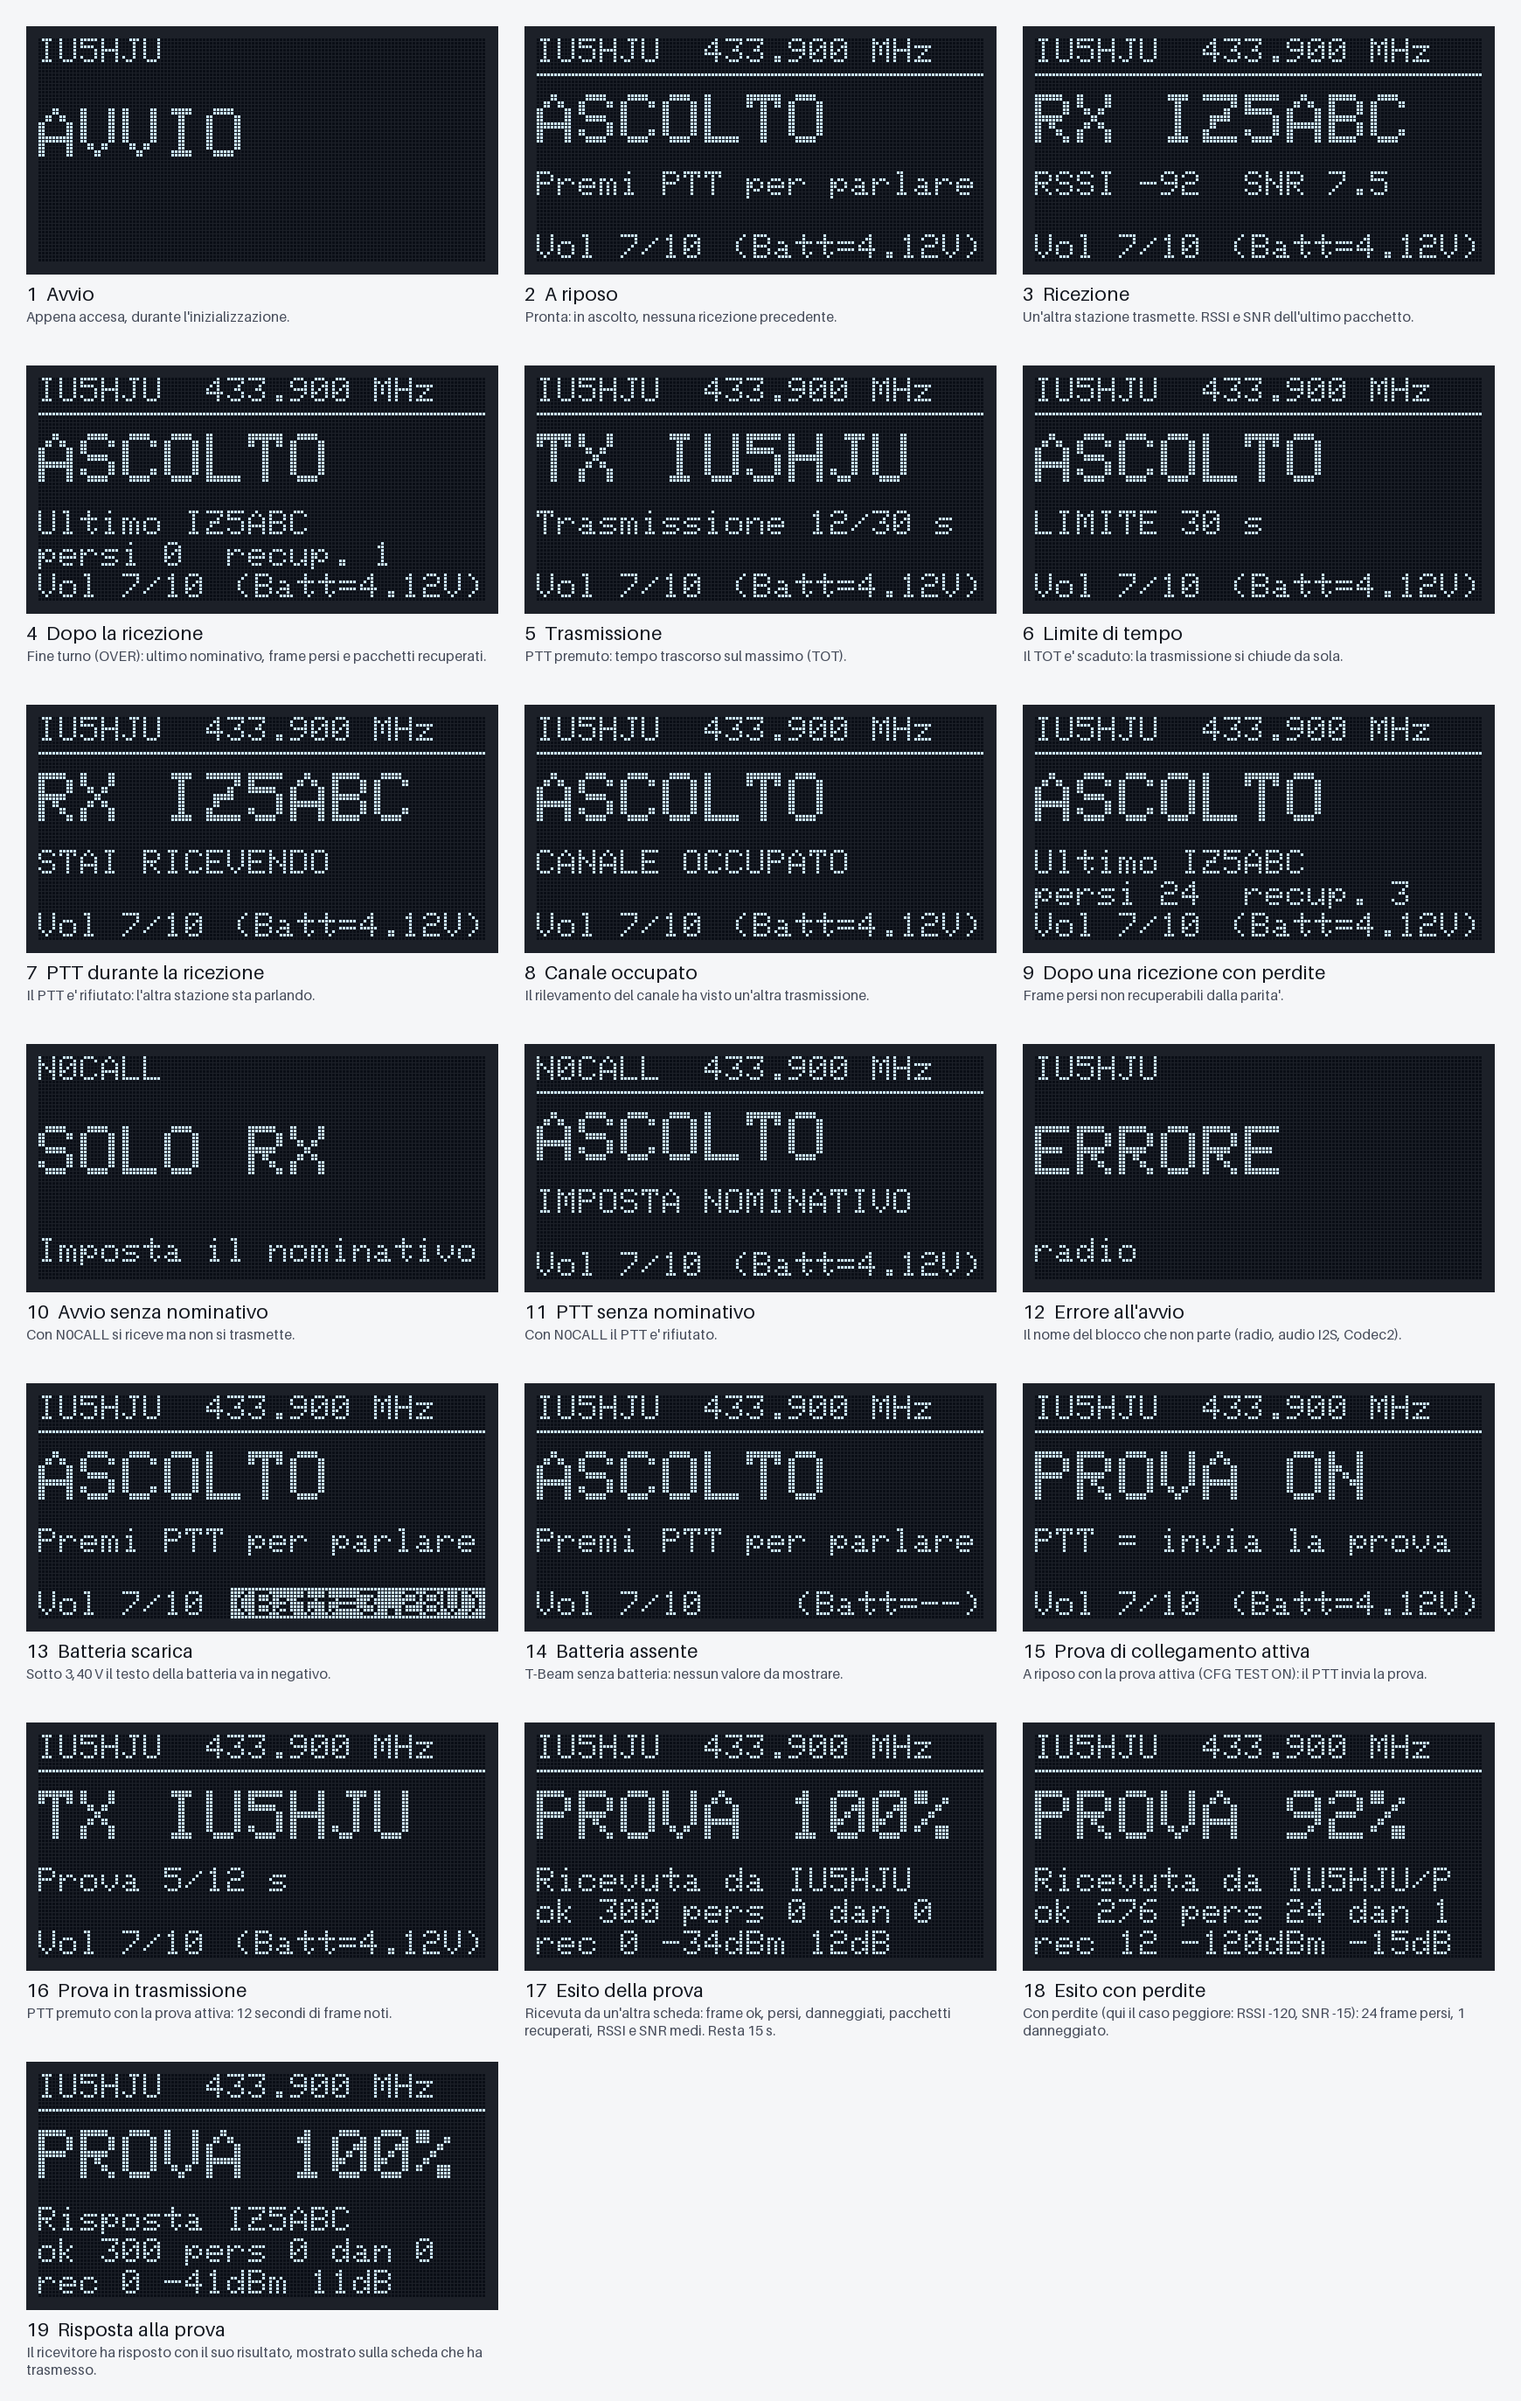
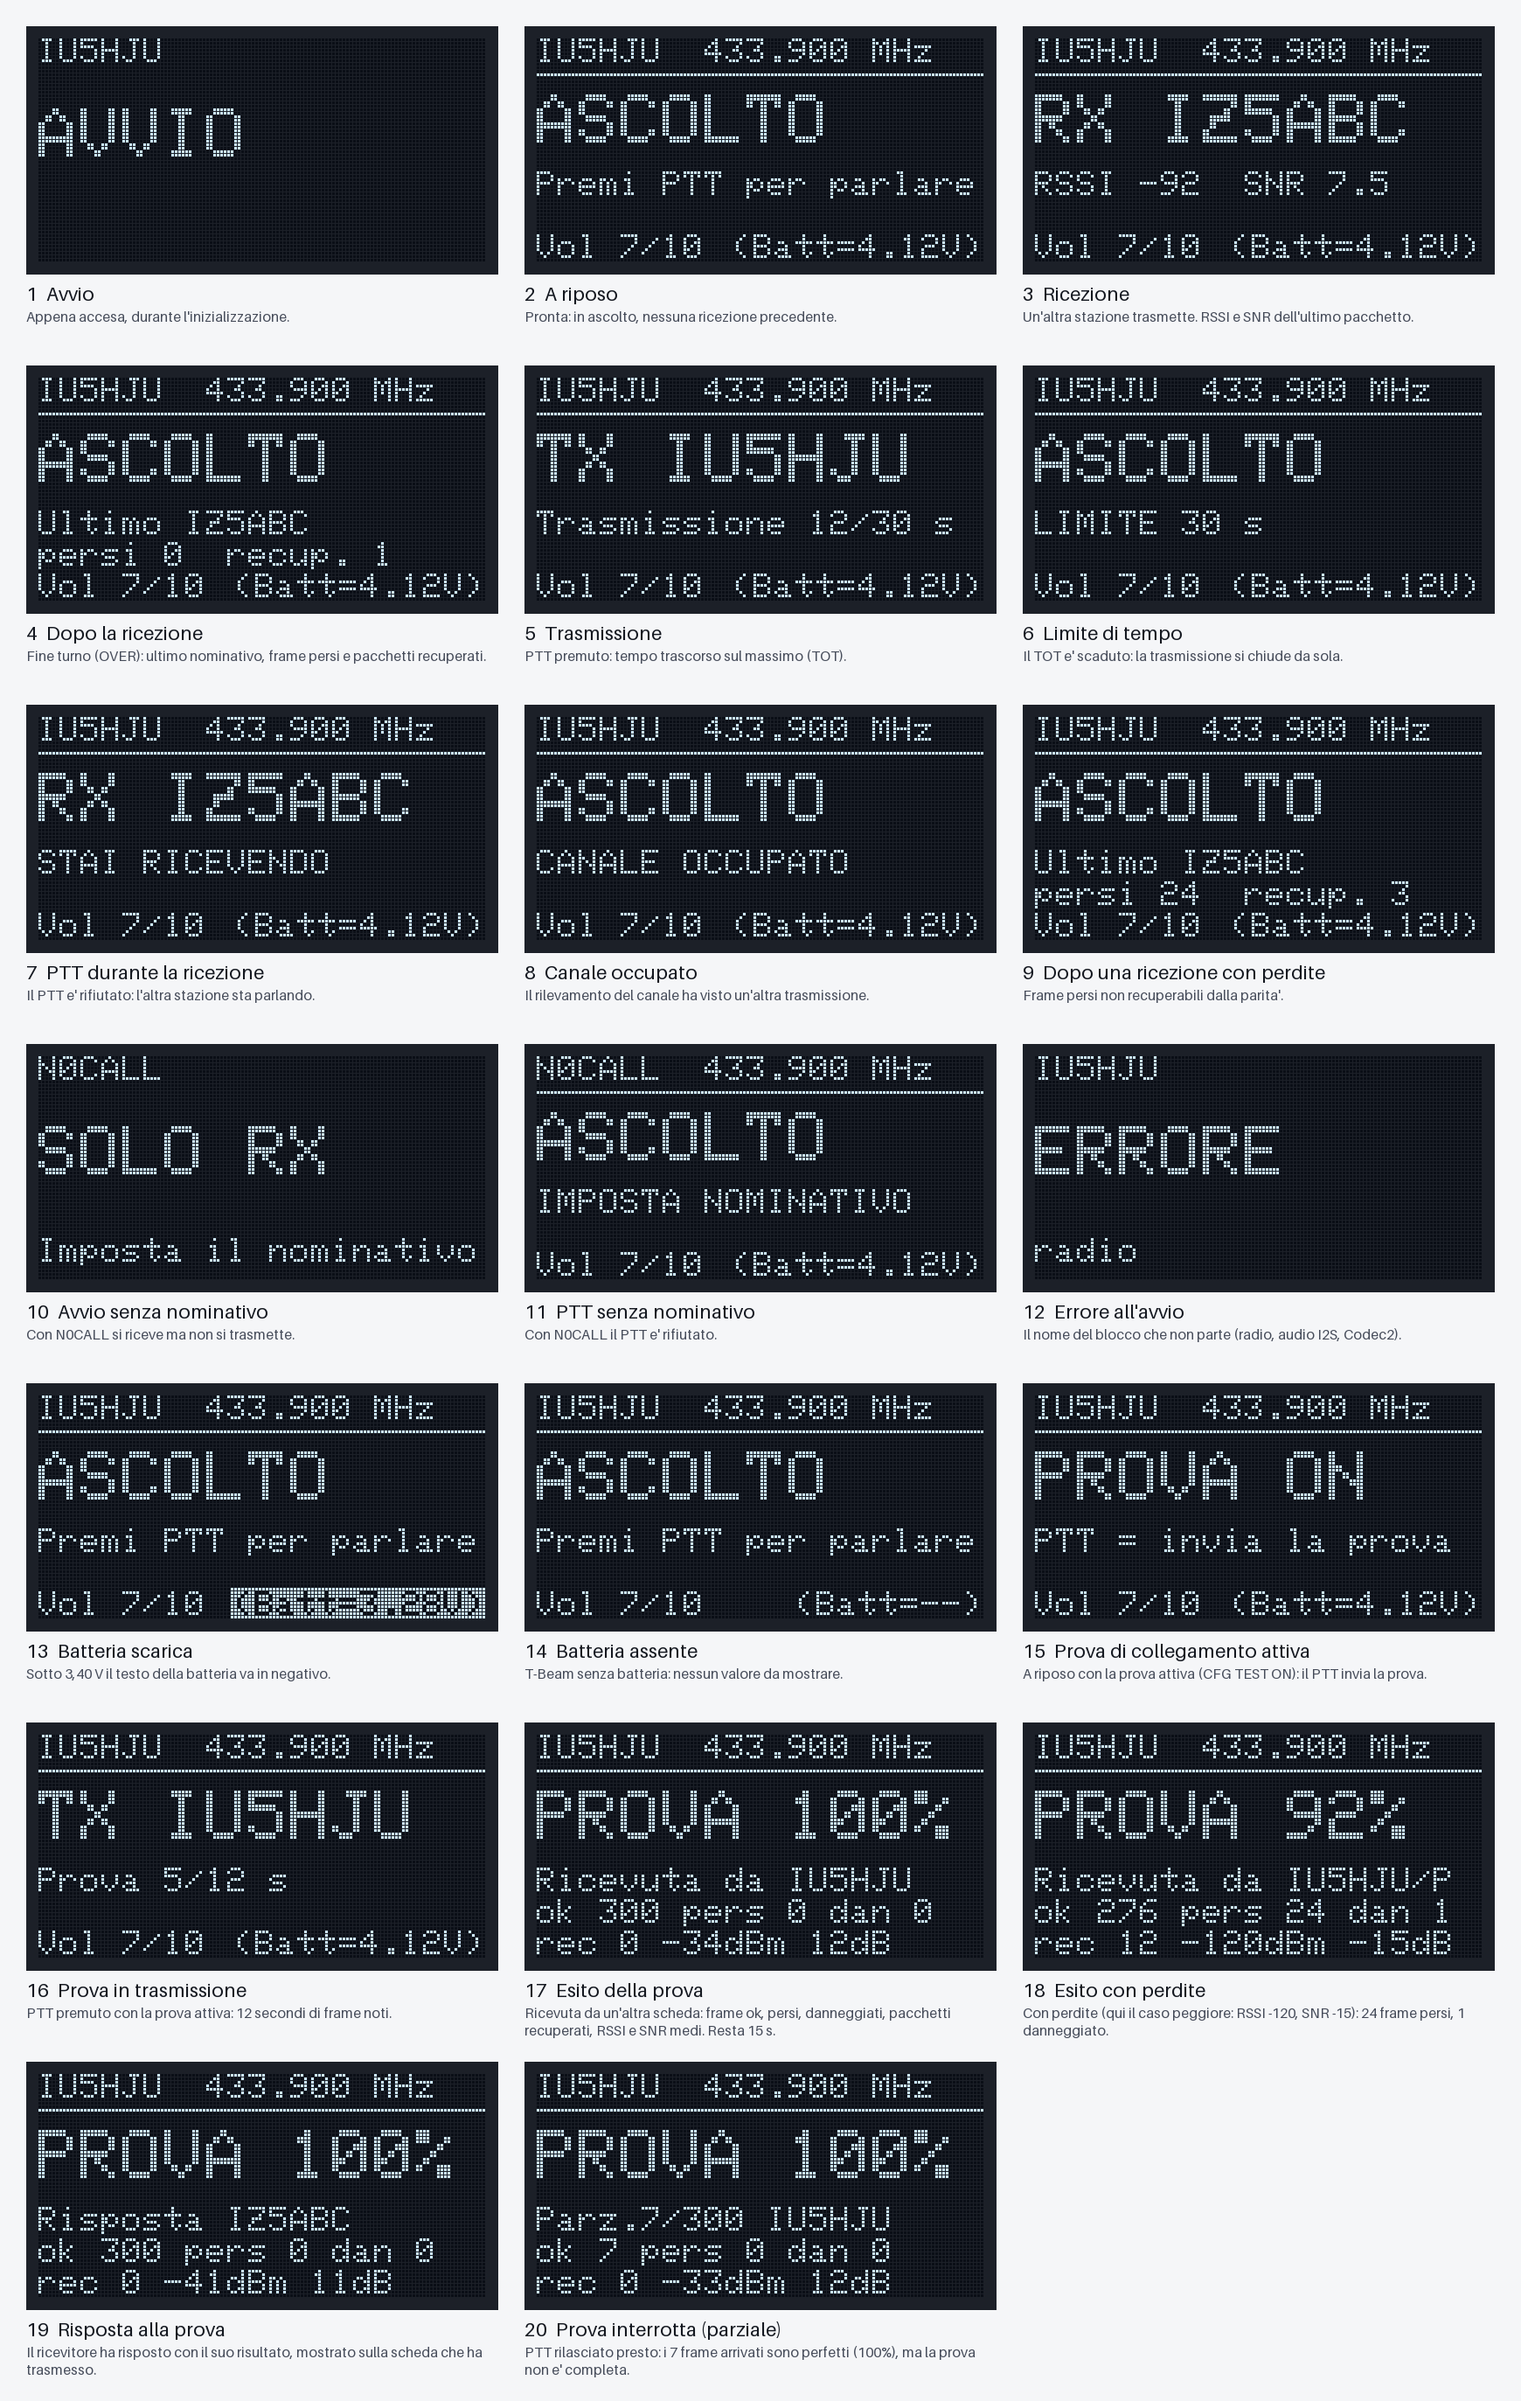
Prova di collegamento: percentuale sui frame arrivati e segnalazione di prova parziale
Claude-Session: https://claude.ai/code/session_01XeozYwmYoAwuvXXpMrm81B

Changed region(s): [[0.3414, 0.8358, 0.6828, 0.9905]]

diff --git a/src/ui.cpp b/src/ui.cpp
@@ -102,12 +102,12 @@ void UiNotifier::linkTestReport(bool fromRemote, const char* callsign, const lcr
   testShown_ = true;
   testUntilMs_ = millis() + 15000;
   // Riga per il registro delle prove (docs/prove.md).
-  Serial.printf("PROVA %s %s: ok %u/%u (%d%%), danneggiati %u, persi %u, pacchetti recuperati %u, RSSI %d dBm, SNR %s%d dB\n",
-                fromRemote ? "risposta da" : "ricevuta da", testCall_[0] ? testCall_ : "-", r.framesOk,
-                static_cast<unsigned>(lcr::kTestFrames), r.percentOk(), r.framesBad, r.framesLost, r.recovered,
-                r.rssiDbm, r.snrValid ? "" : "n.d. ", r.snrValid ? r.snrDb : 0);
+  Serial.printf("PROVA %s %s: ok %u/%u (%d%%)%s, danneggiati %u, persi %u, pacchetti recuperati %u, RSSI %d dBm, SNR %s%d dB\n",
+                fromRemote ? "risposta da" : "ricevuta da", testCall_[0] ? testCall_ : "-", r.framesOk, r.framesOut,
+                r.percentOk(), r.complete() ? "" : " PARZIALE (prova interrotta o coda persa)", r.framesBad, r.framesLost,
+                r.recovered, r.rssiDbm, r.snrValid ? "" : "n.d. ", r.snrValid ? r.snrDb : 0);
   dirty_ = true;
-  if (r.perfect()) {
+  if (r.clean()) {
     audio_.beep(1000, 60);
     audio_.beep(1400, 60);
   } else {
@@ -122,7 +122,11 @@ void UiNotifier::drawTestReport() {
   display_.printf("PROVA %d%%", r.percentOk());
   display_.setTextSize(1);
   display_.setCursor(0, 38);
-  display_.printf("%s %s", testFromRemote_ ? "Risposta" : "Ricevuta da", testCall_[0] ? testCall_ : "-");
+  if (r.complete()) {
+    display_.printf("%s %s", testFromRemote_ ? "Risposta" : "Ricevuta da", testCall_[0] ? testCall_ : "-");
+  } else {
+    display_.printf("Parz.%u/%u %s", r.framesOut, static_cast<unsigned>(lcr::kTestFrames), testCall_[0] ? testCall_ : "-");
+  }
   display_.setCursor(0, 47);
   display_.printf("ok %u pers %u dan %u", r.framesOk, r.framesLost, r.framesBad);  // max 21 caratteri
   display_.setCursor(0, 56);

diff --git a/tools/render_display.py b/tools/render_display.py
@@ -151,8 +151,9 @@ def draw_screen(font, state="idle", rx_call="", rssi=0, snr=0.0, tx_seconds=0, n
 
 
 def draw_test_report(font, frames_ok, lost, bad, recovered, rssi, snr, call, remote=False, callsign=CALLSIGN):
+    frames_out = frames_ok + lost + bad
     """Come UiNotifier::drawTestReport(): esito della prova di collegamento (15 s)."""
-    pct = min(100, (100 * frames_ok + 150) // 300)
+    pct = 0 if frames_out == 0 else min(100, (100 * frames_ok + frames_out // 2) // frames_out)
     o = Oled(font)
     o.set_size(1)
     o.set_cursor(0, 0)
@@ -163,7 +164,10 @@ def draw_test_report(font, frames_ok, lost, bad, recovered, rssi, snr, call, rem
     o.write(f"PROVA {pct}%")
     o.set_size(1)
     o.set_cursor(0, 38)
-    o.write(f"{'Risposta' if remote else 'Ricevuta da'} {call or '-'}")
+    if frames_out >= 300:
+        o.write(f"{'Risposta' if remote else 'Ricevuta da'} {call or '-'}")
+    else:
+        o.write(f"Parz.{frames_out}/300 {call or '-'}")
     o.set_cursor(0, 47)
     o.write(f"ok {frames_ok} pers {lost} dan {bad}")  # max 21 caratteri
     o.set_cursor(0, 56)
@@ -211,6 +215,8 @@ def screens(font):
          draw_test_report(font, 276, 24, 1, 12, -120, -15, "IU5HJU/P")),
         ("19  Risposta alla prova", "Il ricevitore ha risposto con il suo risultato, mostrato sulla scheda che ha trasmesso.",
          draw_test_report(font, 300, 0, 0, 0, -41, 11, "IZ5ABC", remote=True)),
+        ("20  Prova interrotta (parziale)", "PTT rilasciato presto: i 7 frame arrivati sono perfetti (100%), ma la prova non e' completa.",
+         draw_test_report(font, 7, 0, 0, 0, -33, 12, "IU5HJU")),
     ]
 
 

diff --git a/tests/test_link.cpp b/tests/test_link.cpp
@@ -83,10 +83,22 @@ static void testReportCodec() {
   CHECK(q.recovered == 5 && q.rssiDbm == -92 && q.snrDb == -7 && q.snrValid);
   CHECK(!decodeTestReport(b, sizeof(b) - 1, q));
   CHECK(q.percentOk() == 99);  // 296/300
+  CHECK(q.complete() && !q.clean());
   CHECK(!q.perfect());
   r.framesOk = 300;
   r.framesBad = r.framesLost = 0;
   CHECK(r.perfect() && r.percentOk() == 100);
+}
+
+static void testPartial() {
+  TestReport r;
+  CHECK(r.percentOk() == 0 && !r.clean() && !r.complete());  // niente ricevuto
+  r.framesOut = r.framesOk = 7;  // prova interrotta dopo 7 frame, tutti perfetti
+  CHECK(r.percentOk() == 100 && r.clean() && !r.complete() && !r.perfect());
+  r.framesOut = 10;
+  r.framesOk = 9;
+  r.framesLost = 1;
+  CHECK(r.percentOk() == 90 && !r.clean());
 }
 
 static void testRxAccumulator() {
@@ -174,6 +186,7 @@ static void testReleaseEarly() {
   CHECK(s.b.note.reports.size() == 1);
   CHECK(s.b.note.reports[0].r.framesBad == 0 && s.b.note.reports[0].r.framesLost == 0);
   CHECK(s.b.note.reports[0].r.framesOut > 0 && s.b.note.reports[0].r.framesOut < kTestFrames);
+  CHECK(s.b.note.reports[0].r.clean() && !s.b.note.reports[0].r.complete() && s.b.note.reports[0].r.percentOk() == 100);
 }
 
 static void testVoiceUnaffected() {
@@ -207,6 +220,7 @@ static void testOnlyOwnReply() {
 int main() {
   testPattern();
   testReportCodec();
+  testPartial();
   testRxAccumulator();
   testEndToEnd();
   testNoReplyWhenTestOff();

diff --git a/lib/voicecore/link_test.h b/lib/voicecore/link_test.h
@@ -29,10 +29,16 @@ struct TestReport {
   int snrDb = 0;             // media degli SNR (0 se la radio non lo fornisce)
   bool snrValid = false;
 
-  // Percentuale di frame ok rispetto a kTestFrames, 0-100.
+  // Percentuale di frame ok sui frame consegnati (0 se non ne e' arrivato nessuno), 0-100.
+  // Una prova interrotta dal PTT dopo pochi frame perfetti vale quindi 100%, ma non e' "completa".
   int percentOk() const;
-  // "Collegamento buono": nessun frame perso o danneggiato e prova completa.
-  bool perfect() const { return framesOk >= kTestFrames && framesBad == 0 && framesLost == 0; }
+  // Prova arrivata fino in fondo (kTestFrames frame). Se manca la coda non si sa se il PTT e' stato
+  // rilasciato prima o se sono andati persi gli ultimi pacchetti: per questo si segnala "parziale".
+  bool complete() const { return framesOut >= kTestFrames; }
+  // Nessun frame perso o danneggiato tra quelli consegnati.
+  bool clean() const { return framesOut > 0 && framesBad == 0 && framesLost == 0; }
+  // "Collegamento buono": prova completa e pulita.
+  bool perfect() const { return complete() && clean(); }
 };
 
 // Il risultato viaggia in un pacchetto kModeTestReport con 12 byte di payload (2 "frame").

diff --git a/lib/voicecore/link_test.cpp b/lib/voicecore/link_test.cpp
@@ -18,7 +18,8 @@ void testFramePattern(uint16_t session, uint32_t index, uint8_t* out) {
 }
 
 int TestReport::percentOk() const {
-  const int p = static_cast<int>((100u * framesOk + kTestFrames / 2) / kTestFrames);
+  if (framesOut == 0) return 0;
+  const int p = static_cast<int>((100u * framesOk + framesOut / 2u) / framesOut);
   return p > 100 ? 100 : p;
 }
 

diff --git a/docs/prova-collegamento.md b/docs/prova-collegamento.md
@@ -25,7 +25,13 @@ Misurare frequenza e ampiezza dopo il decodificatore darebbe falsi allarmi sul c
 2. Premi il PTT su una scheda (serve un nominativo vero: con N0CALL il PTT è bloccato). Dura 12 s, o meno se rilasci prima.
 3. Sul ricevitore compare la schermata "PROVA 99%" per 15 s, con la riga sulla seriale:
    `PROVA ricevuta da IU5HJU: ok 296/300 (99%), danneggiati 1, persi 3, pacchetti recuperati 5, RSSI -92 dBm, SNR 6 dB`.
-   Sul trasmettitore, se risponde, la stessa schermata con "Risposta" e la riga `PROVA risposta da IZ5ABC: ...`. Due bip acuti = prova perfetta, un bip grave = c'è stata qualche perdita.
+   Sul trasmettitore, se risponde, la stessa schermata con "Risposta" e la riga `PROVA risposta da IZ5ABC: ...`. Due bip acuti = nessuna perdita tra i frame arrivati, un bip grave = c'è stata qualche perdita.
+
+## Prova parziale
+
+La percentuale è calcolata sui frame **arrivati**, non sui 300 previsti: una prova interrotta con il PTT dopo 7 frame, tutti perfetti, vale 100%. La scheda la segnala come **parziale**
+(sull'OLED "Parz.7/300", in seriale `PARZIALE (prova interrotta o coda persa)`). Il ricevitore non può distinguere un PTT rilasciato presto dalla perdita degli ultimi pacchetti:
+per misurare la portata tieni premuto il PTT fino in fondo (12 s) e cerca "ok 300/300".
 
 ## Come leggere l'esito
 

diff --git a/docs/display.md b/docs/display.md
@@ -39,6 +39,7 @@ Vol 7/10   (Batt=4.12V)       ultima riga: volume a sinistra, batteria a destra
 | 17 | Fine di una prova ricevuta | "PROVA 100%", "Ricevuta da" e nominativo, frame ok/persi/danneggiati, pacchetti recuperati, RSSI e SNR medi. Resta 15 s |
 | 18 | Come la 17 ma con perdite | percentuale più bassa; le righe stanno nei 21 caratteri anche nel caso peggiore (RSSI -120 dBm, SNR -15 dB) |
 | 19 | Risposta alla prova trasmessa da qui | come la 17 con "Risposta" e il nominativo dell'altra stazione |
+| 20 | Prova interrotta o incompleta | come la 17, ma la riga sotto la percentuale dice "Parz.7/300" e il nominativo: la percentuale è sui frame arrivati, non su 300 |
 
 Gli avvisi 6, 7, 8 e 11 restano a schermo circa 1,5-2 secondi; l'esito della prova (17-19) 15 secondi, senza volume e batteria. Due bip acuti a prova perfetta, un bip grave se ci sono state perdite. Ogni trasmissione e ricezione termina anche con un bip.
 
